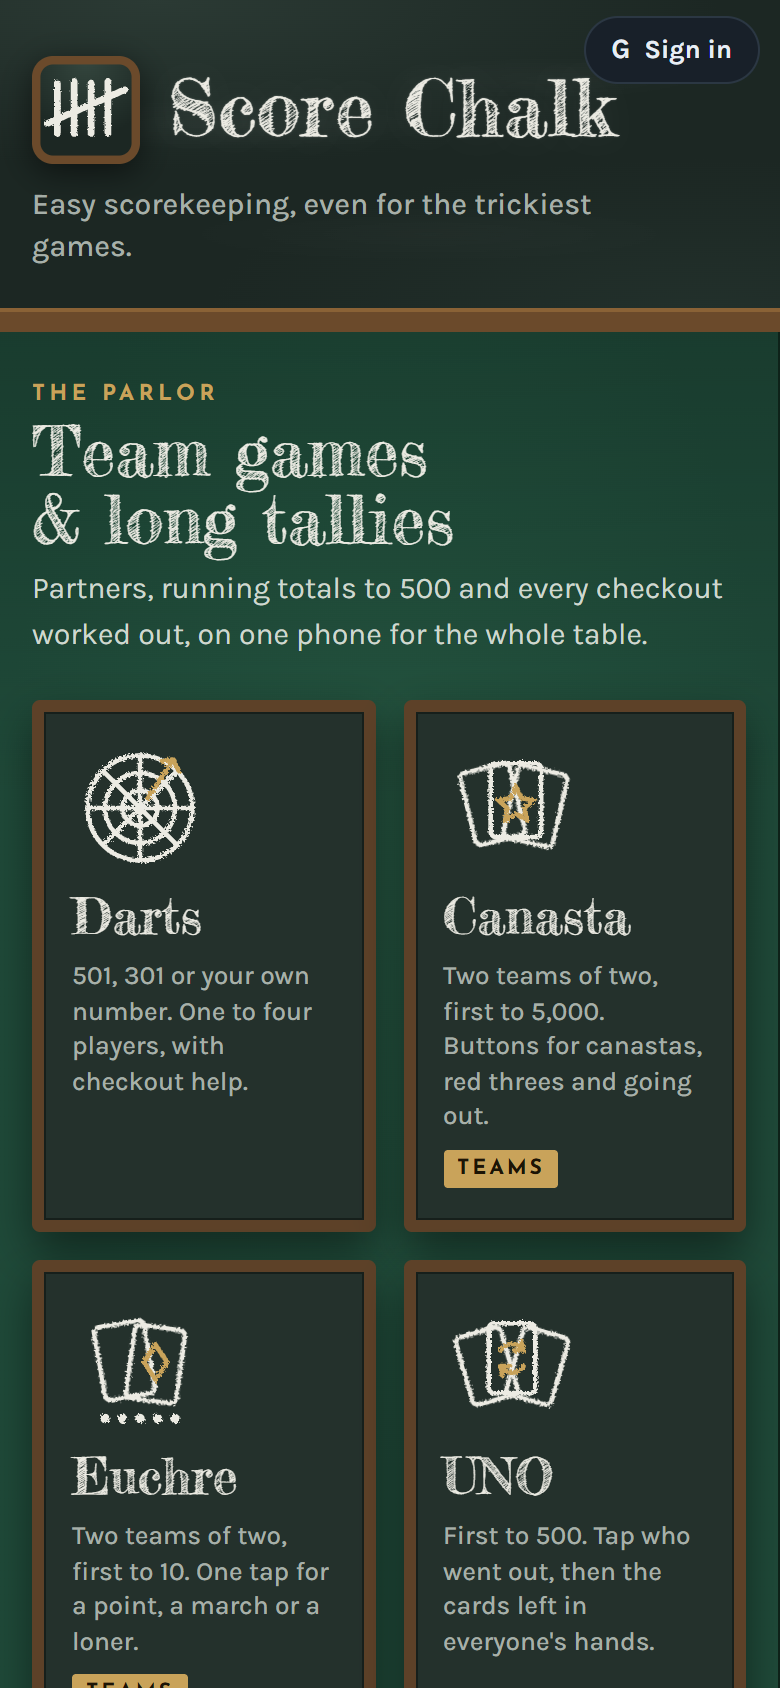
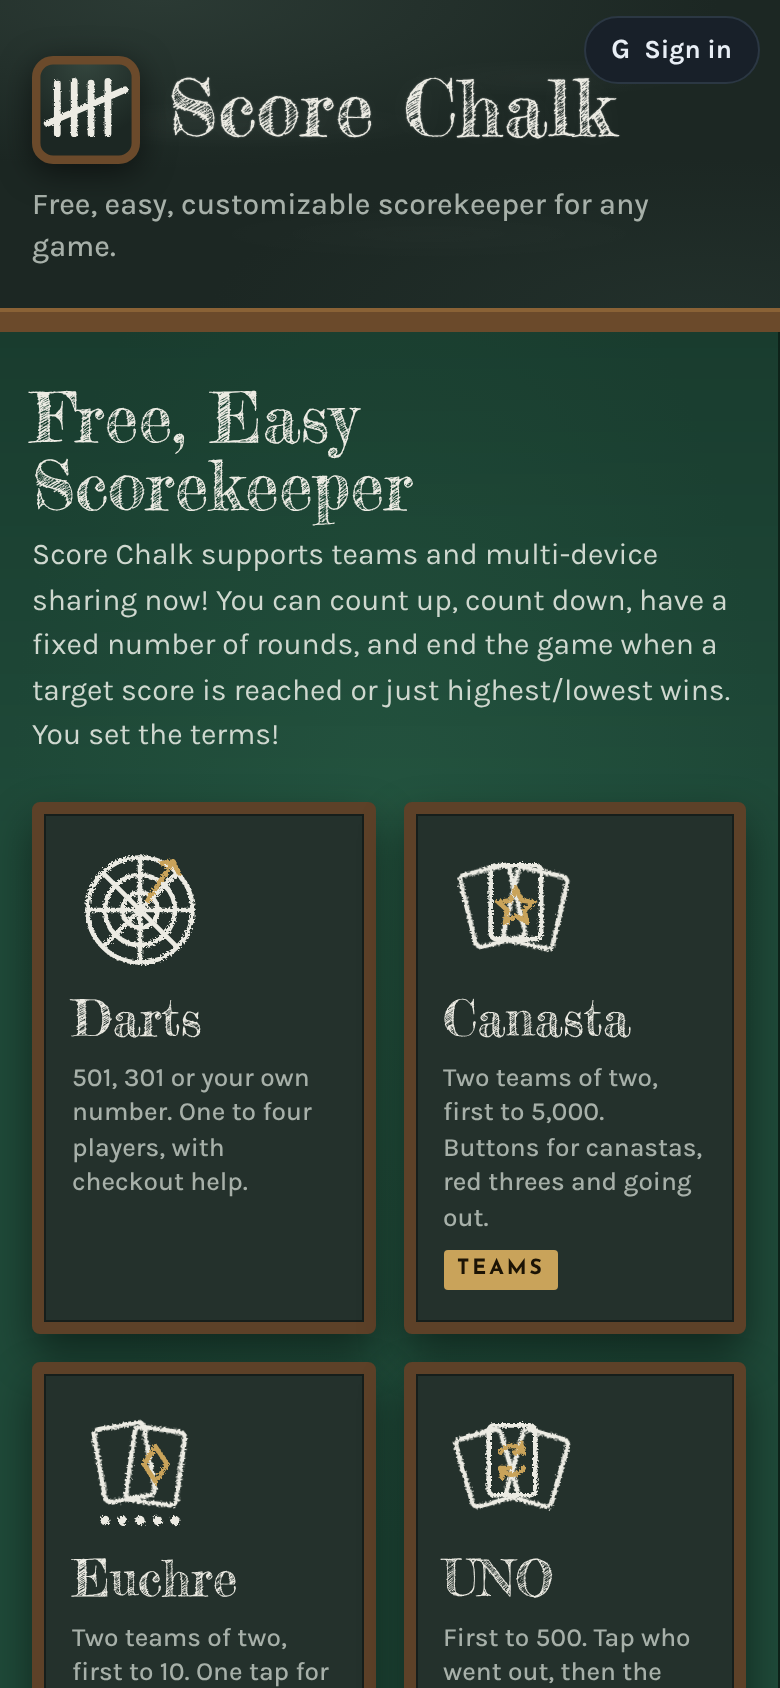
Home page: easy, free and any game, and the rooms left unnamed
The owner's wording for the lines that say what Score Chalk is: the
tagline under the name and the installed app's description ("Free, easy,
customizable scorekeeper for any game."), the home page's title in a
search result, its title as a shared link, and the first section's
heading and line, now about teams, sharing and setting your own terms.

The sections no longer carry their rooms' names (The Parlor, The Living
Room, The Workshop): the rooms are the look, not the pitch. The home
page's app-store screenshots are retaken.

Claude-Session: https://claude.ai/code/session_01CaxhvmkvV9J6Mab9YTVtfY

diff --git a/public/index.html b/public/index.html
@@ -7,7 +7,7 @@
 <meta name="apple-mobile-web-app-capable" content="yes">
 <meta name="apple-mobile-web-app-status-bar-style" content="black-translucent">
 <!-- what a search result shows: the name, and what it's for -->
-<title>Score Chalk — Free Score Keeper for Darts, Cribbage, Yahtzee &amp; Card Games</title>
+<title>Score Chalk — The Easy, Free Score Keeper for Cards, Dice, Darts, or any other game</title>
 <!-- visits, and errors on these pages: see /report.js -->
 <script src="/report.js?v=1"></script>
 <!-- Score Chalk as an app: installable, and working offline (see /pwa.js) -->
@@ -25,7 +25,7 @@
 <meta property="og:site_name" content="Score Chalk">
 <meta property="og:type" content="website">
 <meta property="og:url" content="https://scorechalk.com/">
-<meta property="og:title" content="Score Chalk">
+<meta property="og:title" content="Score Chalk — easy and free scorekeeping">
 <meta property="og:description" content="Easy scorekeeping, even for the trickiest games. Every bid, bonus and running total added up for you, on one phone or everyone's.">
 <meta property="og:image" content="https://scorechalk.com/og/home.png">
 <meta property="og:image:width" content="1200">
@@ -56,7 +56,7 @@
            other page (see .backlink.mark in /shared.css) -->
       <img class="mark" src="/favicon.svg?v=2" alt="" width="54" height="54">
       <h1>Score Chalk</h1>
-      <p>Easy scorekeeping, even for the trickiest games.</p>
+      <p>Free, easy, customizable scorekeeper for any game.</p>
       <!-- shown by /pwa.js where the browser offers installing -->
       <button id="installBtn" class="install" type="button" hidden>Install the app</button>
     </div>
@@ -69,17 +69,16 @@
   </div>
 </header>
 
-<!-- ============ The two rooms ============
+<!-- ============ The games ============
      Adding a game means a folder under public/ (or a Builder template) and
-     a row on /games/, the list of every game. Each room here shows four:
-     the Parlor for party and pub games, the Living Room for family and
-     tabletop ones. -->
+     a row on /games/, the list of every game. Each section here shows four,
+     drawn in its room's look (the Parlor's chalk, the Living Room's legal
+     pad); the rooms are the look, not the pitch, so they go unnamed. -->
 <main class="rooms">
   <section class="room parlor" id="parlor" aria-labelledby="parlor-h">
     <div class="room-head">
-      <span class="kicker">The Parlor</span>
-      <h2 id="parlor-h">Team games &amp; long tallies</h2>
-      <p>Partners, running totals to 500 and every checkout worked out, on one phone for the whole table.</p>
+      <h2 id="parlor-h">Free, Easy Scorekeeper</h2>
+      <p>Score Chalk supports teams and multi-device sharing now! You can count up, count down, have a fixed number of rounds, and end the game when a target score is reached or just highest/lowest wins. You set the terms!</p>
     </div>
     <div class="shelf">
       <a class="chalk-card" href="/darts/">
@@ -131,7 +130,6 @@
 
   <section class="room living" id="living" aria-labelledby="living-h">
     <div class="room-head">
-      <span class="kicker">The Living Room</span>
       <h2 id="living-h">Score sheets &amp; counters</h2>
       <p>Yahtzee's boxes, cribbage's pegs and every life point, filled in and added up as you play.</p>
     </div>
@@ -189,7 +187,6 @@
 <footer class="workshop">
   <div class="workshop-in">
     <div>
-      <span class="kicker">The Workshop</span>
       <h2>Build your own scorekeeper</h2>
       <p>For a game that isn't here yet: choose how it ends, which way it scores, teams or no teams, and name your own scoring buttons.</p>
       <a class="build" href="/builder/">Open the Builder</a>
